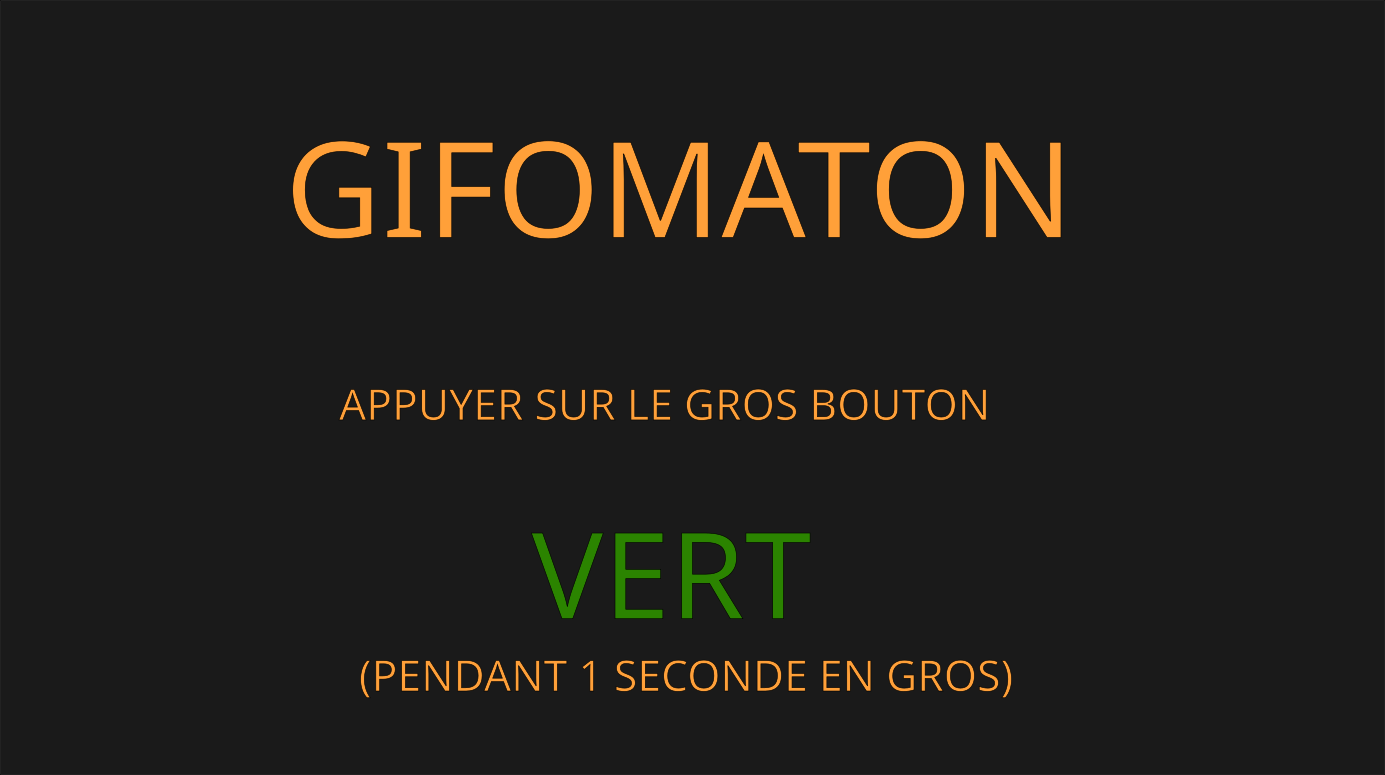
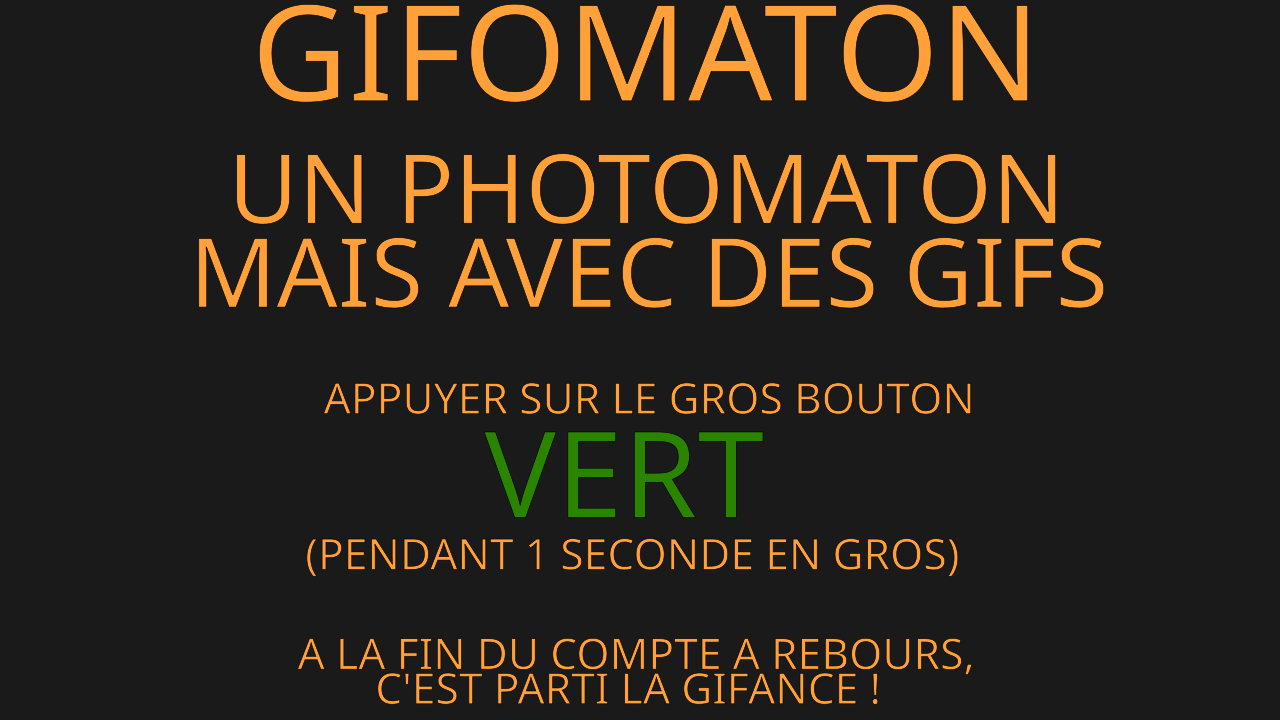
Rework intro png

diff --git a/gif4000.py b/gif4000.py
@@ -151,7 +151,7 @@ def loop(ser):
             time.sleep(1)
             out = True
         elif (key == "bleu"):
-            change_banner("images_web/5_go.png")
+            change_banner("images_web/_remerciement.png")
             time.sleep(1)
             reset_banner()
             reset_qr_code()
